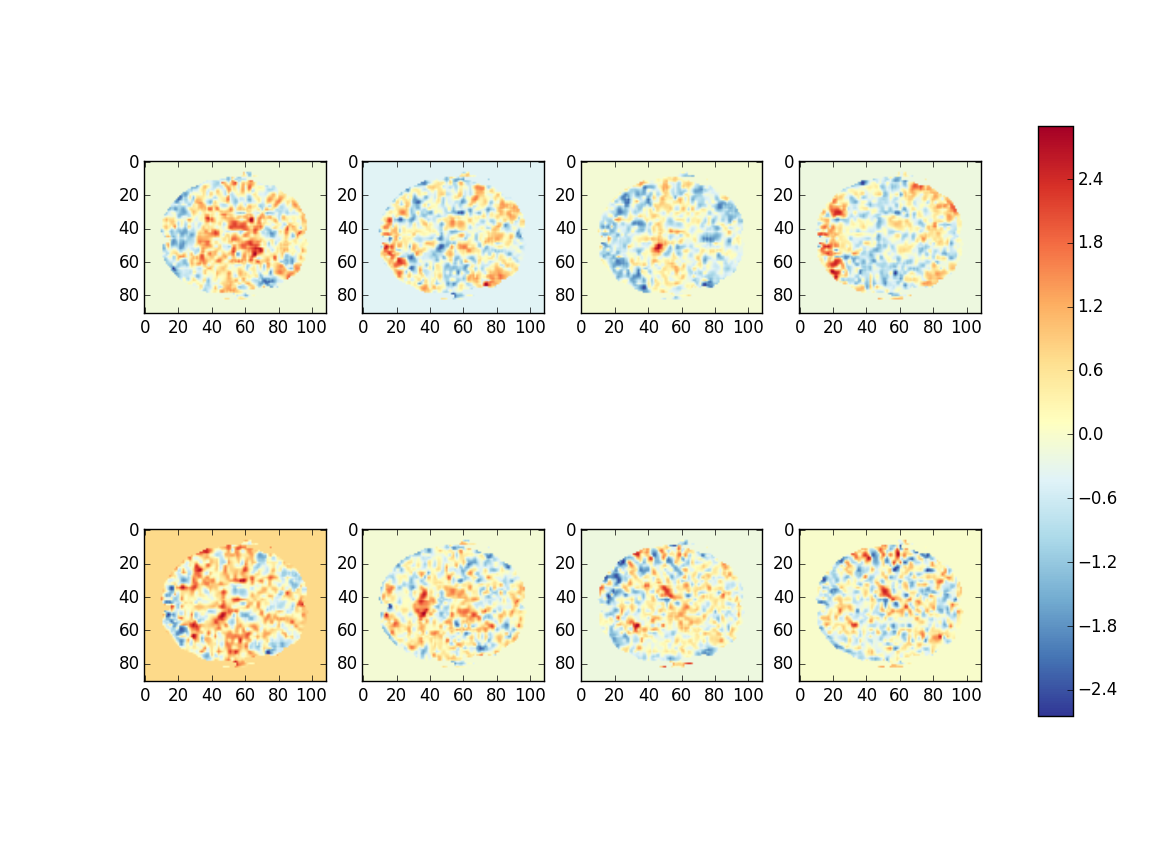
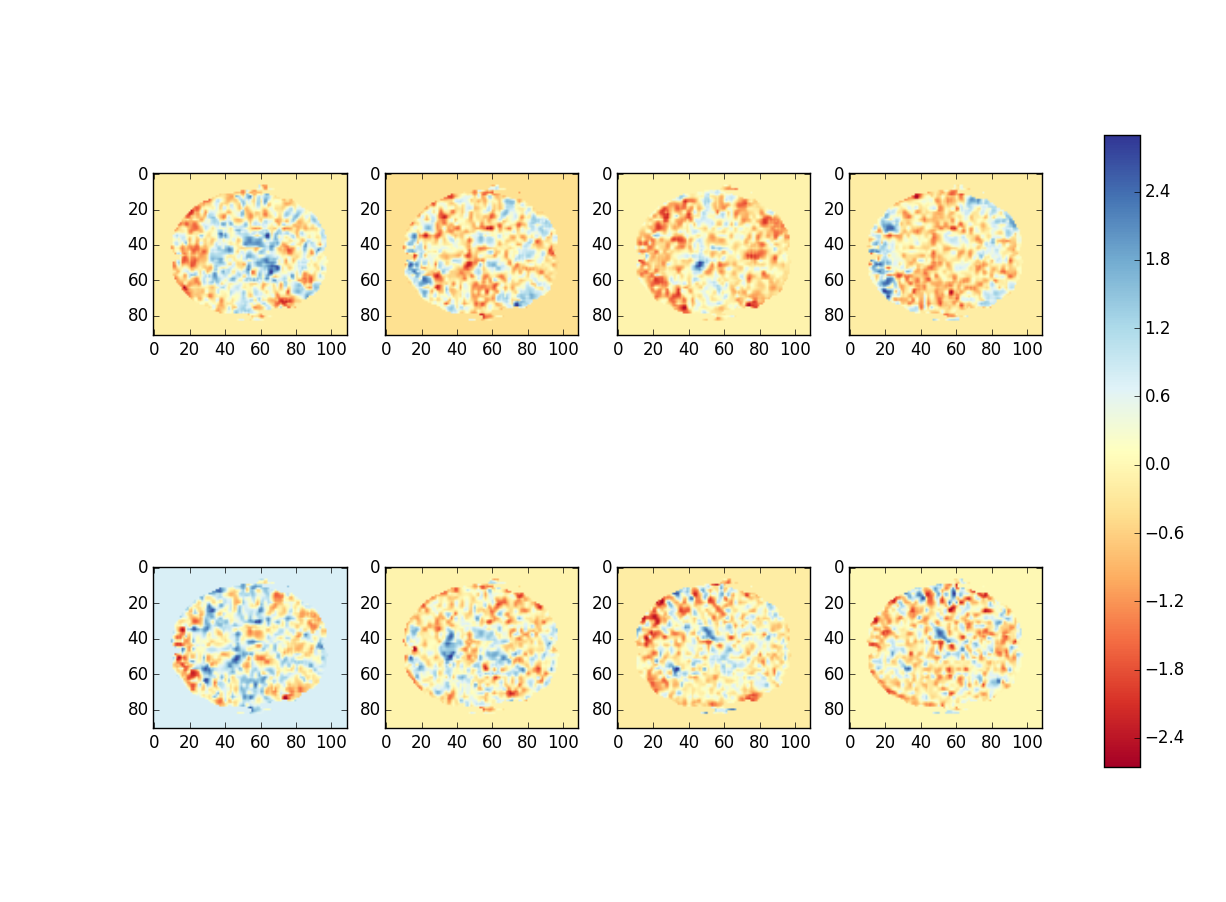
minor fixes on linear_modeling _script, and the t_map color

Changed region(s): [[0.0937, 0.1234, 0.9679, 0.8636]]

diff --git a/code/utils/linear_modeling/linear_modeling_script.py b/code/utils/linear_modeling/linear_modeling_script.py
@@ -89,7 +89,7 @@ c_mat = np.diag(np.array(np.ones((9,))))
 # t statistics and p values
 # Length is the number of voxels after masking
 t_mat = np.ones((9, y.shape[1]))
-p_mat = np.ones((9, y.shape[1],))
+p_mat = np.zeros((9, y.shape[1],))
 for i in range(0,9,1):
     t, p = linear_modeling.t_stat(X, c_mat[:,i], beta, MRSS, df)
     t_mat[i,:] = t
@@ -106,18 +106,27 @@ p_val = linear_modeling.reshape(in_brain_mask, vol_shape, p_mat)
 # Visualizing t values for the middle slice
 fig, axes = plt.subplots(nrows=2, ncols=4)
 for i, ax in zip(range(0,8,1), axes.flat):
-    im = ax.imshow(t_val[:, :, 45, i], cmap = 'RdYlBu_r')
+    im = ax.imshow(t_val[:, :, 45, i], cmap = 'RdYlBu')
 fig.subplots_adjust(right=0.85)
 cax = fig.add_axes([0.9, 0.15, 0.03, 0.7])
 fig.colorbar(im, cax=cax)
-#plt.show()
+plt.show()
 
-# Visualizing t values for the middle slice
+# Visualizing p values for the middle slice in color
 fig, axes = plt.subplots(nrows=2, ncols=4)
 for i, ax in zip(range(0,8,1), axes.flat):
     im = ax.imshow(p_val[:, :, 45, i], cmap = 'RdYlBu')
 fig.subplots_adjust(right=0.85)
 cax = fig.add_axes([0.9, 0.15, 0.03, 0.7])
 fig.colorbar(im, cax=cax)
-#plt.show()
+plt.show()
+
+# Visualizing p values for the middle slice in gray
+fig, axes = plt.subplots(nrows=2, ncols=4)
+for i, ax in zip(range(0,8,1), axes.flat):
+    im = ax.imshow(p_val[:, :, 45, i], cmap = 'gray')
+fig.subplots_adjust(right=0.85)
+cax = fig.add_axes([0.9, 0.15, 0.03, 0.7])
+fig.colorbar(im, cax=cax)
+plt.show()
 
